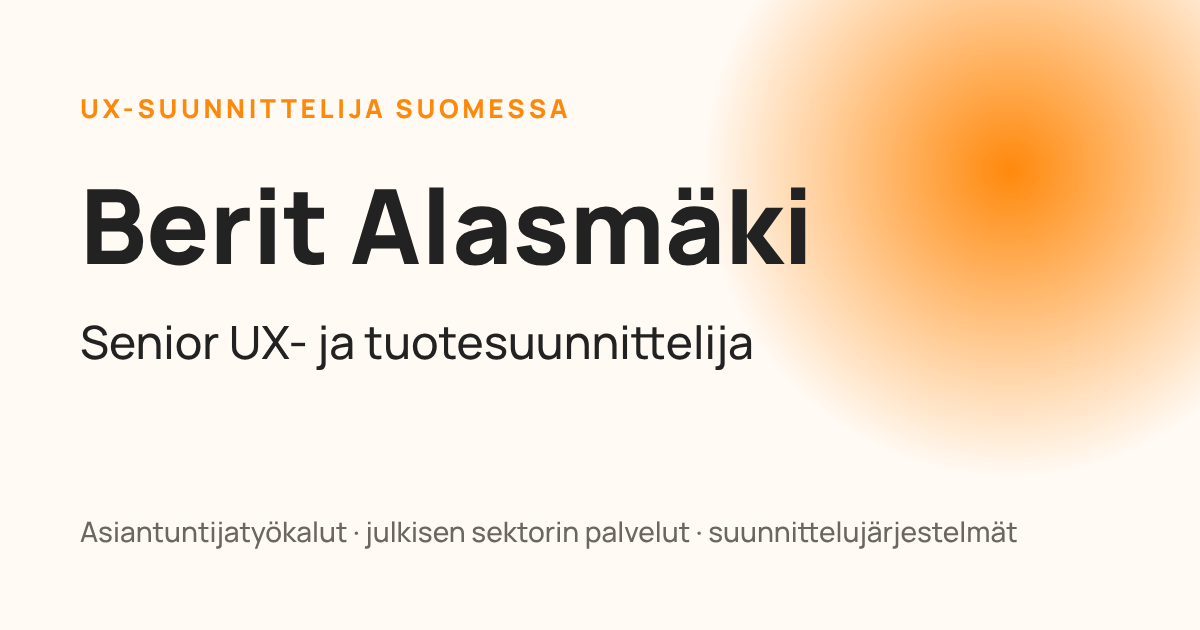
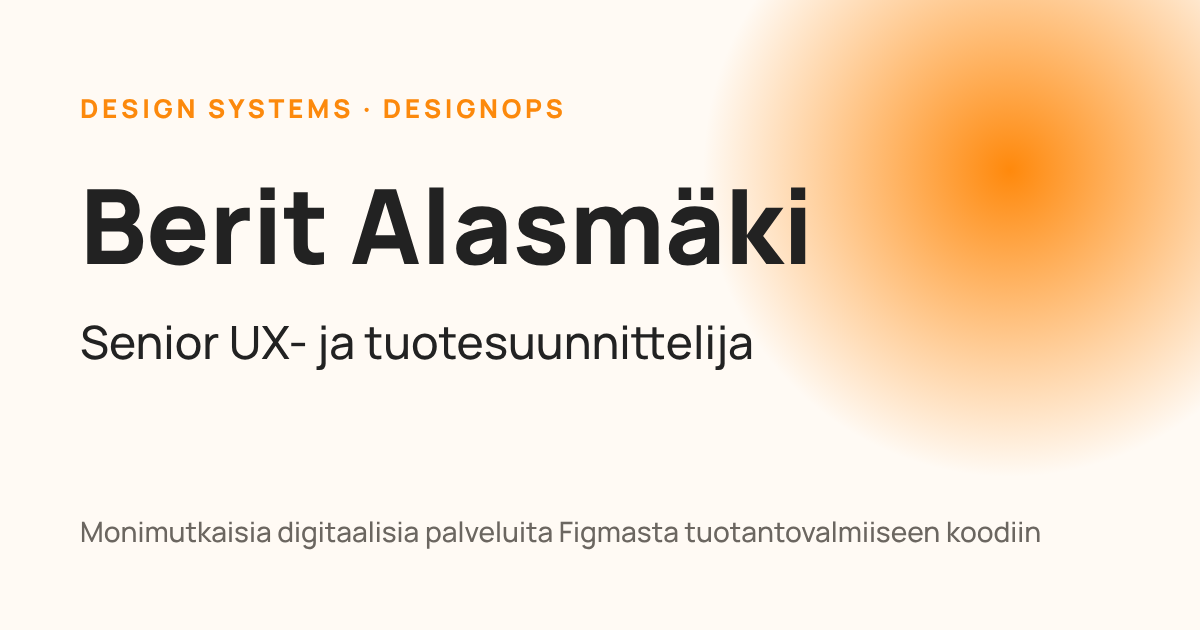
Finnish SEO: emphasise skills (Design Systems, DesignOps), drop "Suomessa" phrasing (#36)
* Add Finnish version of the portfolio, with localized routing and SEO

- English stays at the original URLs; Finnish lives under /fi with Finnish
  path words (/fi/blogi, /fi/tyot/...), mapped onto one app/[locale] tree
- Dictionaries (en/fi, type-checked), Finnish case studies and blog posts
- Language switcher in the header; hreflang, canonical, Open Graph per language
- JSON-LD (Person, WebSite, ProfilePage, BlogPosting, BreadcrumbList),
  sitemap.xml with alternates, robots.txt, 1200x630 social images
- Title/description targeting UX-suunnittelija / UX designer Finland

Claude-Session: https://claude.ai/code/session_015M7xwrpixtCBWERdKhuQBq

* Finnish header: "Ota yhteyttä" as a tertiary text button so the nav fits

Claude-Session: https://claude.ai/code/session_015M7xwrpixtCBWERdKhuQBq

* Header: Contact is a text button in English too

Claude-Session: https://claude.ai/code/session_015M7xwrpixtCBWERdKhuQBq

* Header: Contact text button underlines only on hover/focus

Claude-Session: https://claude.ai/code/session_015M7xwrpixtCBWERdKhuQBq

* Finnish copy polish, header spacing, trim homepage questions

- More space between header icons and the Contact button
- Finnish: Dashboard/Wireframet/Lead Designer instead of literal translations,
  new greeting, clients heading, about text (Satakunta)
- Remove the "02 / your next move" eyebrow and the third question tab (both languages)

Claude-Session: https://claude.ai/code/session_015M7xwrpixtCBWERdKhuQBq
[…]

Changed region(s): [[0.0617, 0.8143, 0.8633, 0.8746], [0.0617, 0.1508, 0.4933, 0.2111]]

diff --git a/portfolio-homepage/src/i18n/dictionaries/fi.ts b/portfolio-homepage/src/i18n/dictionaries/fi.ts
@@ -21,9 +21,9 @@ export const fi: Dictionary = {
   meta: {
     titleSuffix: "Berit Alasmäki",
     home: {
-      title: "UX-suunnittelija (UX Designer) Suomessa | Berit Alasmäki",
+      title: "Berit Alasmäki | UX- ja tuotesuunnittelija, Design Systems",
       description:
-        "Berit Alasmäki on senior UX- ja UI/UX-suunnittelija Suomessa. Yli 10 vuoden kokemus asiantuntijatyökaluista, julkisen sektorin palveluista ja suunnittelujärjestelmistä. Tutustu töihin.",
+        "Senior UX- ja tuotesuunnittelija: monimutkaisia digitaalisia palveluita Figmasta tuotantovalmiiseen koodiin. Design Systems ja DesignOps. Tutustu töihin.",
     },
     blog: {
       title: "Blogi",
@@ -33,13 +33,14 @@ export const fi: Dictionary = {
     jsonLd: {
       jobTitle: "Senior UX- ja tuotesuunnittelija",
       description:
-        "Suomessa toimiva senior UX- ja UI/UX-suunnittelija, jolla on yli kymmenen vuoden kokemus asiantuntijatyökalujen, julkisen sektorin palveluiden ja suunnittelujärjestelmien suunnittelusta.",
+        "Senior UX- ja tuotesuunnittelija, joka suunnittelee monimutkaisia digitaalisia palveluita Figmasta tuotantovalmiiseen koodiin. Erikoisalueina suunnittelujärjestelmät (Design Systems) ja DesignOps.",
       knowsAbout: [
         "UX-suunnittelu",
         "UI-suunnittelu",
         "Tuotesuunnittelu",
         "Palvelumuotoilu",
-        "Suunnittelujärjestelmät",
+        "Suunnittelujärjestelmät (Design Systems)",
+        "DesignOps",
         "Käyttäjätutkimus",
         "Käytettävyystestaus",
         "Tietoarkkitehtuuri",

diff --git a/portfolio-homepage/src/lib/seo.ts b/portfolio-homepage/src/lib/seo.ts
@@ -19,7 +19,7 @@ export const ogImage: Record<Locale, { url: string; width: number; height: numbe
     url: "/og/og-fi.png",
     width: 1200,
     height: 630,
-    alt: "Berit Alasmäki — senior UX-suunnittelija Suomessa",
+    alt: "Berit Alasmäki — senior UX- ja tuotesuunnittelija, Design Systems ja DesignOps",
   },
 };
 

diff --git a/portfolio-homepage/src/i18n/dictionaries/en.ts b/portfolio-homepage/src/i18n/dictionaries/en.ts
@@ -38,6 +38,7 @@ export const en = {
         "Product design",
         "Service design",
         "Design systems",
+        "DesignOps",
         "User research",
         "Usability testing",
         "Information architecture",
